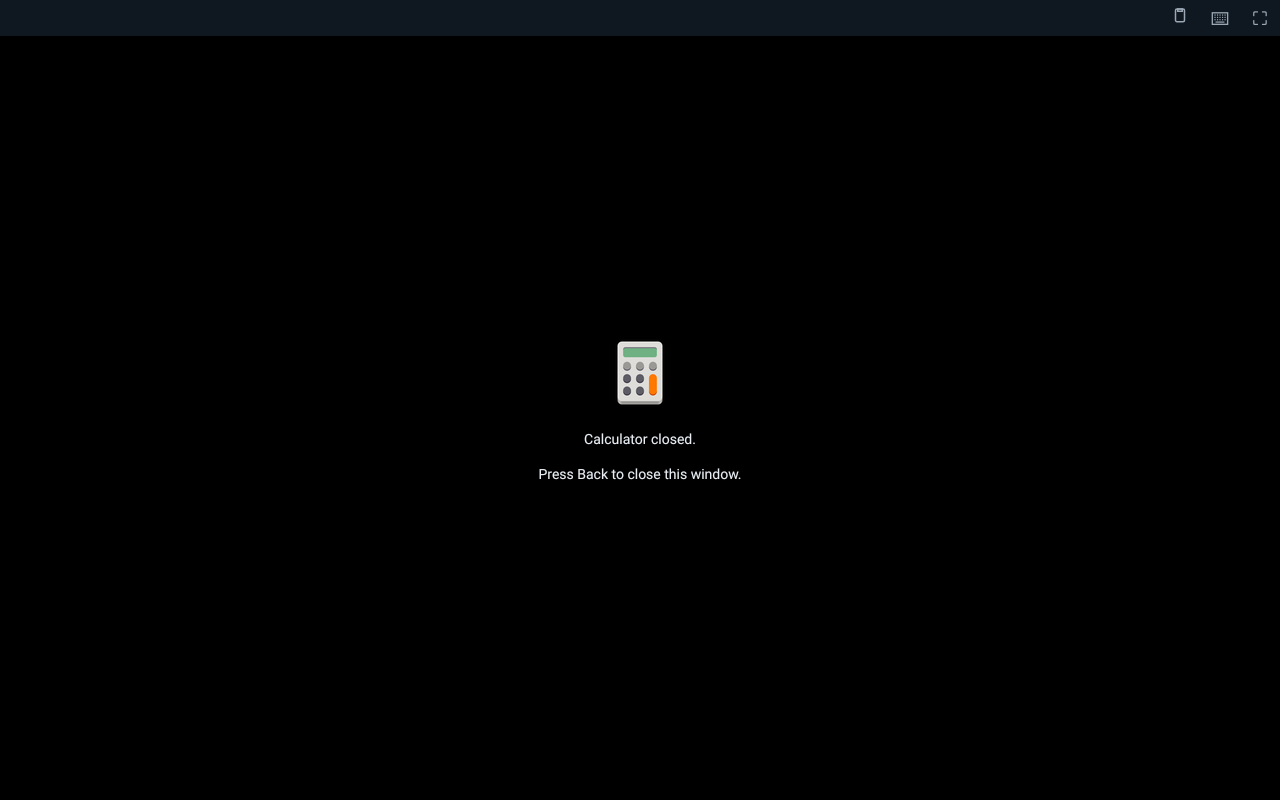
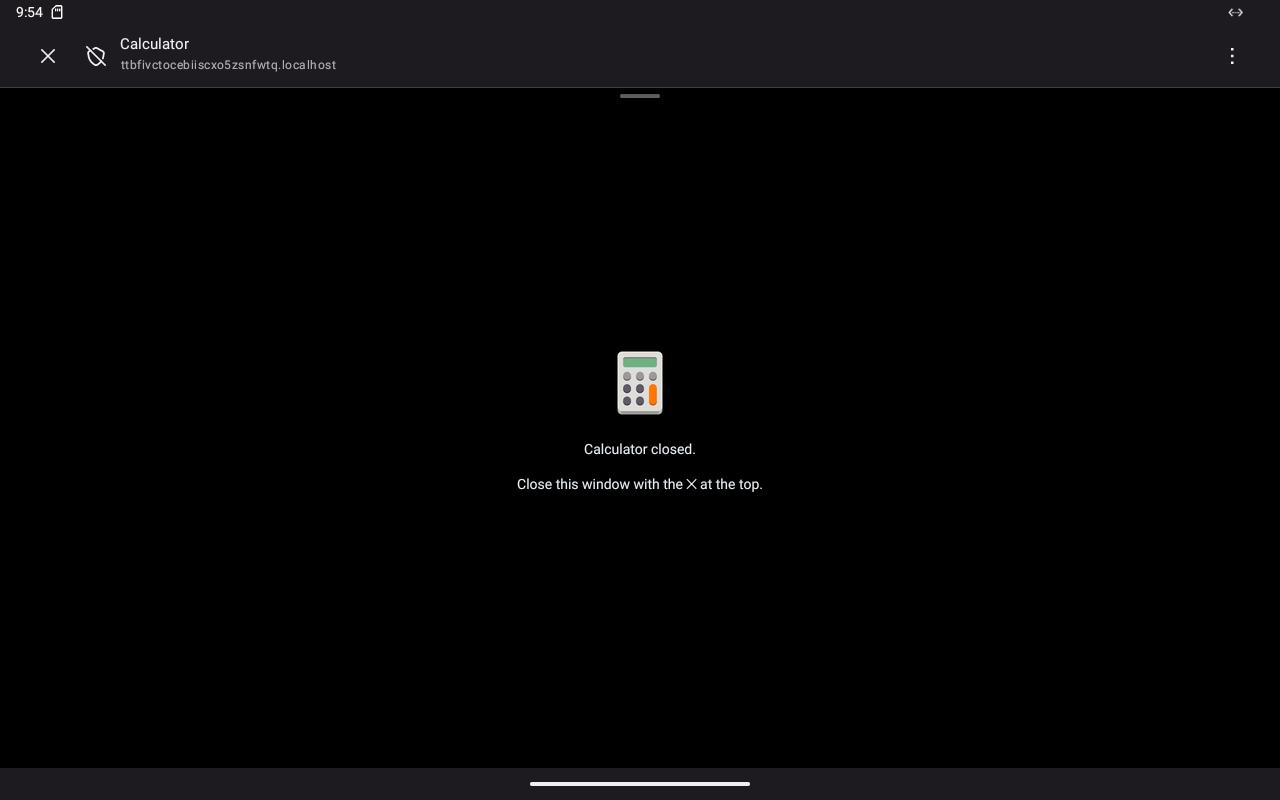
Docs: what Lindroids does now, why, and its limits, with the demos
README: demos first (home screen launch with Termux closed, Open with,
Android's picker), what you get, how it works and why (programs and data in
the container; files, theme, notifications and hardware from Android; the
browser is the window because Android draws windows only for installed apps),
honest limits, and the commands. DISPLAY, ARCHITECTURE and TESTING follow:
icons in the status bar and on the home screen, notifications, Open with,
per-program routing, the ended screen, recording demos and the checklist.

Changed region(s): [[0.0, 0.0, 1.0, 0.125], [0.0, 0.9375, 1.0, 1.0], [0.4062, 0.4062, 0.5938, 0.625]]

diff --git a/README.md b/README.md
@@ -2,65 +2,86 @@
 
 <h1 align="center">Lindroids</h1>
 
-<p align="center"><b>Linux apps on Android, in the browser you already have.</b><br>
-Run any Linux GUI program from Termux, a proot distro or Flatpak, and its windows show in the
-phone's web browser — with touch, the pen, the keyboard, sound and the clipboard. One package,
-installed with Termux's own package manager. No app to install, no permission to grant, no root.</p>
+<p align="center"><b>Linux apps on Android, each in a window of its own.</b><br>
+Run Linux GUI programs from Termux, a proot distro or Flathub, with a home screen icon, Android's
+theme, notifications and files. One package in Termux. No app to install, no permission, no root.</p>
 
-```sh
-lindroids run mousepad            # it opens in a window of its own
-lindroids export xournalpp        # a home screen icon that starts it, Termux open or not
-```
+<p align="center"><img src="media/demos/launch-from-home.webp" width="640" alt="Tapping GNOME Calculator's home screen icon with Termux closed: the window opens, 6×7=42, closing it"><br>
+<sub>The home screen icon, with Termux closed: GNOME Calculator (Flathub) opens in its own window, in Android's dark theme and accent colour, and closes with it. <a href="media/demos/launch-from-home.mp4">mp4</a></sub></p>
 
 <table>
 <tr>
-<td align="center"><img src="media/screenshots/window-of-its-own.png" width="400"><br><sub><code>lindroids run mousepad</code>: a window of its own, full screen (a Firefox Custom Tab opened by Termux)</sub></td>
-<td align="center"><img src="media/screenshots/window-program-closed.png" width="400"><br><sub>The program ended: its window says so, with its icon; Back closes it</sub></td>
+<td align="center"><img src="media/demos/open-with.webp" width="400"><br><sub>A file from Android's Files app, <b>Open with → Termux</b>: it opens in a Linux editor (Mousepad). <a href="media/demos/open-with.mp4">mp4</a></sub></td>
+<td align="center"><img src="media/demos/file-picker.webp" width="400"><br><sub><b>Open…</b> in a Linux program (GNOME Text Editor) is Android's own picker: Files, or a photo from the Camera. <a href="media/demos/file-picker.mp4">mp4</a></sub></td>
 </tr>
 <tr>
-<td align="center"><img src="media/screenshots/browser-mousepad.png" width="400"><br><sub>Mousepad (GTK 3) from Termux, typed into on Android 13</sub></td>
+<td align="center"><img src="media/screenshots/android-notifications.png" width="400"><br><sub>Linux programs' notifications are Android notifications, with their name and icon; a tap brings back the program's window</sub></td>
+<td align="center"><img src="media/screenshots/home-screen-shortcuts.png" width="400"><br><sub><code>lindroids export</code>: home screen icons with the programs' own icons</sub></td>
+</tr>
+<tr>
 <td align="center"><img src="media/screenshots/browser-xournalpp-pen.png" width="400"><br><sub>Xournal++ from a proot-distro Debian, drawn with the pen</sub></td>
-</tr>
-<tr>
-<td align="center"><img src="media/screenshots/browser-xclock-x11.png" width="400"><br><sub>X11: <code>lindroids run xclock</code> (earlier: one page, a tab per window)</sub></td>
-<td align="center"><img src="media/screenshots/browser-phone-dialog.png" width="200"><br><sub>A GTK 4 dialog on a phone-sized screen</sub></td>
-</tr>
-<tr>
-<td align="center" colspan="2"><img src="media/screenshots/home-screen-shortcuts.png" width="400"><br><sub><code>lindroids export</code>: shortcuts owned by Termux (Xournal++ greyed out after <code>lindroids remove</code>)</sub></td>
+<td align="center"><img src="media/screenshots/running-notification.png" width="400"><br><sub>A running program: its own icon in the status bar, a tap brings back its window</sub></td>
 </tr>
 </table>
 
-## What it does
+```sh
+lindroids run org.gnome.Calculator     # a window of its own
+lindroids export org.gnome.Calculator  # a home screen icon; works with Termux closed, after a reboot
+```
 
-- **Every program gets a window of its own.** On Android, `lindroids run` starts the program and
-  opens its window: a browser Custom Tab that Termux opens in a task of its own, with no tabs and
-  no address bar, and full screen from the first tap. Closing the window ends the program; the
-  program ending leaves its window showing its icon and "closed". Menus, popups and dialogs
-  work; small dialogs are centred, and windows that insist on being larger than the screen are
-  scaled down to fit. On a desktop the windows are tabs of one browser page.
-- **Anything with a window.** Native Termux packages (GTK, Qt, SDL, foot, mpv…), programs in a
-  proot distro (found there without `--distro`), **Flatpaks** from Flathub — in Termux itself,
-  with no root and no distro: `install.sh` builds Flatpak natively for Termux (Android patches in
-  `packaging/termux-flatpak`); apps install with `flatpak --user install` and run under proot —
-  and **X11 programs** with no option needed (rootless Xwayland through
-  [xwayland-satellite](https://github.com/Supreeeme/xwayland-satellite); `lindroids setup x11`
-  installs what is missing).
-- **Input.** Touch (as touch, or as a mouse for programs that don't do touch), the **pen** (as a
-  mouse with its button held, so it draws in note and paint programs), mouse and wheel, hardware
-  keyboards, and the soft keyboard (⌨, or by itself when a text field takes focus).
-- **Sound.** A PulseAudio-compatible server plays every stream in the page (Web Audio): paplay,
-  GStreamer, SDL, ALSA via pulse, libcanberra. The browser starts sound after the first tap.
-- **Android's side of the desktop**, through the standard desktop portal and notification service
-  on the programs' own session bus: dark mode, opening links (`xdg-open`, `lindroids open`),
-  files to open or save through the browser, notifications shown in the page, network state. The
-  clipboard goes both ways.
-- **Home screen icons.** `lindroids export <command>` pins a shortcut with the program's own
-  name and icon (Android asks first). It belongs to Termux, not to an app of ours: tapping it
-  has Termux run the program — Termux is started if it is closed — and its windows show in the
-  browser. The program stays where it is installed (Termux, a proot-distro distro, a Flatpak);
-  nothing is copied.
-- **Pure Rust** — the compositor, the sound server, the CLI, the frame transport — plus one
-  small web page and a 7 KB Java helper that asks Android for shortcuts.
+## What you get
+
+- **A window per program**, full screen from the first tap: the program's name, icon, menus,
+  dialogs. Closing the window ends the program; the program ending ends the window. While it
+  runs, its icon is in the status bar.
+- **Any Linux program with a window**: Termux packages, programs in a proot distro, **Flatpaks**
+  from Flathub (in Termux itself: `install.sh` sets Flatpak up there, no root), X11 programs.
+- **Home screen icons** (`lindroids export`) that start the program even when Termux is closed or
+  the phone just restarted.
+- **Android's side, piped in**: dark mode and accent colour; files (Android's picker for
+  *Open…*, *Open with* from the Files app, saves to Downloads, the Camera as a photo source);
+  notifications in Android's shade; links open in Android's browser; clipboard both ways; sound;
+  touch, pen, soft and hardware keyboards; network state.
+
+## How it works, and why
+
+- **Programs and their data stay in the container** — Termux, a proot distro, a Flatpak.
+  **Everything outside it comes from Android**: files, folders, the theme, notifications,
+  hardware. Linux programs never get the device; Android stays in charge of it.
+- **The window is the phone's browser.** Android only draws windows for installed apps, so with
+  no app of our own, a browser is the one that can show them. Termux opens each program as a
+  *Custom Tab* in a task of its own — one entry in Recents per program, no tabs, no address bar —
+  through a small `app_process` helper that runs as Termux and needs no permission. The same
+  helper pins the home screen icons and posts notifications, so they belong to Termux.
+- **The server** (`lindroids`, one Rust binary) is a Wayland compositor and a PulseAudio server.
+  It serves the window page on a loopback port, sends the 64×64 tiles that changed (LZ4), and
+  takes back touch, keys and text. Both ends prove themselves with P-256 keys before anything is
+  shown. Android's state reaches programs through the standard desktop portals (Settings,
+  FileChooser, OpenURI, Notification), so GTK and libadwaita programs follow it unchanged.
+- **Files from Android**: *Open with → Termux* runs `~/bin/termux-file-editor`, which Lindroids
+  installs; it picks the Linux program for the file's type (`lindroids open --linux`).
+
+```
+ Termux / proot distro / Flatpak                         Android
+ ┌────────────────────────────────────┐                  ┌─────────────────────────────────┐
+ │ Linux programs                     │  WebSocket on    │ a browser Custom Tab per program│
+ │   │ Wayland │ PulseAudio │ X11     │◀═ loopback ═════▶│  canvas, touch, keys, sound     │
+ │ lindroids server + desktop portals │  (P-256 keys)    │  file picker, clipboard, theme  │
+ │ app_process helper (as Termux) ────┼─────────────────▶│ home screen icons, notifications│
+ └────────────────────────────────────┘                  └─────────────────────────────────┘
+```
+
+Details and the experiments behind them: [docs/DISPLAY.md](docs/DISPLAY.md),
+[docs/ARCHITECTURE.md](docs/ARCHITECTURE.md). What is checked, and how: [lab/CHECKLIST.md](lab/CHECKLIST.md).
+
+## Limits (no app of our own)
+
+- Recents shows the browser's icon on the window (the program's name is the title).
+- Full screen starts on the first tap; Firefox does not let a page close its window, so an ended
+  program's window asks for one tap on ✕.
+- A file picked in Android's picker reaches the program as a copy: *Save As* goes to Downloads.
+  Browsers have no folder picker.
+- Home screen icons carry Termux's badge, and `lindroids remove` can only grey one out.
 
 ## Install
 
@@ -68,102 +89,53 @@ In **Termux** (from F-Droid or GitHub):
 
 ```sh
 curl -fsSL https://dixonsolutions.github.io/lindroids/install.sh | sh
-lindroids run mousepad
 ```
 
-The installer is [`install.sh`](install.sh) in this repository (the same file is served from the
-site above and from `https://raw.githubusercontent.com/dixonSolutions/lindroids/main/install.sh`).
-It adds the Lindroids repository to the package manager that is there and installs with it, so
-the usual upgrade keeps it current: in **Termux** (APT, or pacman with Termux's pacman bootstrap —
-into Termux itself, no extra distro), and in the distros of proot-distro, UserLAnd, Andronix and
-desktop Linux — **Debian/Ubuntu/Kali** (APT), **Arch/Manjaro/Artix** (pacman),
-**Fedora/RHEL/Rocky/Alma** (dnf), **openSUSE** (zypper), **Alpine/postmarketOS/Chimera** (apk) and
-**Void** (xbps). Anywhere else it installs a static binary.
-Details: [docs/INSTALL.md](docs/INSTALL.md).
-
-Nothing else to set up: the window `lindroids run` opens carries a ticket in its `#` part, which
-never leaves the browser, and the browser pairs with it once. A page opened by hand asks once for
-the code that `lindroids pair` shows.
+[`install.sh`](install.sh) adds the Lindroids repository to the package manager that is there
+(Termux's APT or pacman; Debian/Ubuntu, Arch, Fedora, openSUSE, Alpine, Void in proot distros and
+on desktops), so the usual upgrade keeps it current, and offers to set up Flatpak.
+Details: [docs/INSTALL.md](docs/INSTALL.md). Nothing to pair: the first window carries a one-time
+ticket.
 
 ## Use
 
 ```sh
-lindroids run <command> [args]          # run a program; its windows show in the browser
-lindroids run "foot -e htop"            # a whole command line
-lindroids run --prootdistro=debian gedit   # from a proot-distro distro (found without it, too)
-lindroids run org.gnome.Calculator      # an installed Flatpak (in Termux or any distro)
-lindroids run xterm                     # X11 programs too
-lindroids run --x11 gedit               # a toolkit app on X11 instead of Wayland
-lindroids run --name "Notes" --icon notes.svg mousepad
+lindroids run <command> [args]           # run a program in a window of its own
+lindroids run org.gnome.TextEditor       # a Flatpak
+lindroids run --prootdistro=debian gedit # from a proot-distro distro (found without it, too)
+lindroids run xterm                      # X11 programs too
 
-lindroids export <command> [args]       # home screen shortcut (Android asks to add it)
-lindroids list                          # what you exported
-lindroids remove <id>                   # its shortcut is greyed out; drag it off
-lindroids launch <id>                   # what the shortcut runs
+lindroids export <command> [args]        # home screen icon (again: updates it)
+lindroids list | remove <id> | launch <id>
 
-lindroids open <file|URI>               # open a link or a file through the browser
-lindroids notify <title> [body]         # a notification in the page
-lindroids info                          # dark mode, network, memory, battery, as the browser says
-lindroids setup x11                     # install Xwayland (and satellite where needed)
-lindroids setup flatpak                 # Flatpak: native in Termux (no root), or in a proot distro
-lindroids status | doctor | pair | setup | start | stop | version
+lindroids open --linux <file>            # open a file in a Linux program (--with, --choose, --list)
+lindroids open <file|URL>                # open in Android
+lindroids notify <title> [body]          # an Android notification
+lindroids info                           # what Android says: dark mode, network, battery…
+lindroids setup [x11|flatpak] | status | doctor | pair | stop | version
 ```
 
-Useful environment: `LINDROIDS_SCALE=2` (output scale; default follows the screen density),
-`LINDROIDS_TOUCH=pointer` (touch drives a mouse pointer instead of touch events).
+`LINDROIDS_SCALE=2` sets the output scale, `LINDROIDS_TOUCH=pointer` makes touch a mouse,
+`LINDROIDS_BROWSER=<package>` picks the browser for windows, `LINDROIDS_STATS=1` shows the frame
+rate in the window.
 
-## How it works
+## Tested
 
-```
- Termux / proot distro / Flatpak                          the phone's browser (Custom Tabs)
- ┌────────────────────────────────────┐                   ┌──────────────────────────────┐
- │ Linux programs                      │                   │ one window per program:      │
- │   │ Wayland    │ PulseAudio  X11    │                   │ <label>.localhost:<port>/    │
- │   ▼            ▼             ▼      │  WebSocket on     │  <canvas> ← changed tiles    │
- │ lindroids server ◀── xwayland-sat.  │◀═ loopback ══════▶│  touch, pen, keys, text      │
- │  (Rust Wayland compositor +         │  (P-256 keys)     │  Web Audio, clipboard,       │
- │   sound server, serves the page)    │                   │  files, notifications        │
- └────────────────────────────────────┘                   └──────────────────────────────┘
-```
-
-- `lindroids` is one binary: the CLI, and the server (`lindroids server`), which it starts on
-  demand. The server is a plain Linux program — no Android APIs, no `app_process` — so it runs in
-  any sandbox. It composites each window on the CPU and sends only the 64×64 tiles that changed,
-  LZ4-compressed, one frame in flight per window; the page draws them into a canvas.
-- The server's loopback port serves the page (embedded in the binary, so it always matches) and
-  a WebSocket for the link, only at `http://<label>.localhost:<port>/` (a random label: anything
-  else gets nothing). Both ends prove themselves with ECDSA P-256 keys before the page sees or
-  touches anything: the browser made its key pair when it paired, and the server keeps only its
-  public key. A program's window also needs that run's ticket, which only the CLI hands out.
-- `lindroids run` opens each program's window from Termux with a Custom Tab intent (sent by a
-  small `app_process` helper, as Termux, which needs no permission); the same program's window
-  comes back to the front instead of opening twice.
-- Details, everything that was tried, and the lab tests: [docs/DISPLAY.md](docs/DISPLAY.md).
-
-More: [docs/ARCHITECTURE.md](docs/ARCHITECTURE.md).
-
-## Compatibility
-
-| | |
-|---|---|
-| Android | 7.0 (API 24) and newer, with any current browser (Chrome, Firefox, the system WebView browsers); arm64-v8a, armeabi-v7a, x86_64, x86 |
-| Terminals | Termux; distros under proot (proot-distro, UserLAnd, Andronix…): Debian, Ubuntu, Alpine and Arch; desktop Linux (for testing) |
-| Tested in the browser | Android 13 (lab VM, Termux 0.118.3): Mousepad (typing, menus), Xournal++ from Debian (pen), xclock (X11), home screen shortcuts with Termux closed and open; desktop Chromium: zenity, gtk3-demo (typing, soft-keyboard path, completion popups) |
-| Earlier tested with the old app, same server | GTK 4 and Flatpaks (GNOME Calculator, Characters, Pinta, Tux Paint, RustDesk), Qt 6, SDL 3, foot, xterm, sound |
+Android 13 lab VM (SELinux enforcing, Termux 0.118.3, Firefox): GNOME Calculator and Text Editor
+from Flathub, Mousepad and foot from Termux, Xournal++ from Debian, xclock (X11); home screen
+icons with Termux closed and after a reboot; Open with, the file picker, notifications, theme;
+55 fps scrolling. See [lab/CHECKLIST.md](lab/CHECKLIST.md) and [docs/TESTING.md](docs/TESTING.md).
 
 ## Build from source
 
 ```sh
-scripts/build-release.sh          # everything: CLIs for 8 targets, debs, pacman, tarballs → dist/
+scripts/build-release.sh   # CLIs for 8 targets, packages, tarballs → dist/
 cargo test --workspace
-tests/host-integration.sh         # server + a stand-in display + foot, on any Linux box
 ```
 
-Needs Rust with the Android and musl targets, `cargo-ndk` and NDK 27. See
-[docs/PACKAGING.md](docs/PACKAGING.md).
+Needs Rust with the Android and musl targets, `cargo-ndk` and NDK 27: [docs/PACKAGING.md](docs/PACKAGING.md).
 
 ## License
 
-Lindroids is dual-licensed under [MIT](LICENSE-MIT) or [Apache-2.0](LICENSE-APACHE), at your
-option. Packages also ship xwayland-satellite (MPL-2.0); see
-[third_party/README.md](third_party/README.md).
+[MIT](LICENSE-MIT) or [Apache-2.0](LICENSE-APACHE), at your option. Packages also ship
+xwayland-satellite (MPL-2.0): [third_party/README.md](third_party/README.md).

diff --git a/docs/DISPLAY.md b/docs/DISPLAY.md
@@ -90,7 +90,8 @@ shows in a tab of the default browser.
 
 | Where | Icon |
 |---|---|
-| Home screen | The exported program's own icon and name, on a shortcut pinned for Termux. The launcher adds a small Termux badge. |
+| Home screen | The exported program's own icon and name, as an adaptive icon (the program's drawing on a backdrop of its colour), on a shortcut pinned for Termux. The launcher adds a small Termux badge. Exporting again updates it in place *(tested)*. |
+| Status bar and shade | While the program runs: its one-colour (`-symbolic`) icon in the status bar, its name and icon in a notification the helper posts as Termux; a tap brings back its window *(tested)*. Its own notifications show the same way. |
 | The window | The page's favicon and title are the program's. While it starts, and after it ends, the page shows the program's icon and name full size *(tested: "Calculator closed." under the Calculator icon)*. |
 | Recents | **The browser's icon** (Firefox *(tested)*), with a live thumbnail of the program. Only an app's own activity can set its icon there, and the browser sets it only for web apps installed through it, which are rejected above. This is the one requirement no design without an APK can meet. |
 
@@ -350,7 +351,13 @@ a dead one and end its program.
    until the first window comes, then the program's windows, and goes full screen on the first
    tap.
 6. Either end ends the run, as above. Ctrl+C in the terminal, or closing the Termux session, ends
-   the program; its window then shows the end screen.
+   the program; its window then shows the end screen, out of full screen so that the browser's ✕
+   shows (Back only sends a Firefox Custom Tab behind; ✕ removes it *(tested)*). A run started
+   from a home screen icon ends with Termux's session, server and all: the page takes the lost
+   link as the end of the program.
+7. While it runs, a notification stands for it (its icon in the status bar), posted by the helper
+   as Termux; requests from the program (sound, file pickers, links, notifications) go to its own
+   window, by pid → run.
 
 ### Export: `lindroids export X` *(tested)*
 
@@ -413,19 +420,17 @@ has a developer option to turn it off. Lindroids keeps its own process count low
 | No root, no APK, no special permission or setting | Yes. Lindroids uses intents to the browser and to Termux's share receiver, and pinned shortcuts: nothing else. |
 | Any Android version and vendor | Yes, with a browser that has Custom Tabs, which every major one does. Without one, the windows fall back to a plain browser tab. |
 | A window of its own, not a tab, not installed through the browser | Yes. A Custom Tab in its own task per program, opened and raised by Lindroids. Full screen from the first tap; before that, a thin bar with close, title and menu. |
-| The program's icon | Yes on the home screen, in the window, as the favicon, and on the start and end screens. **No in recents**, where the browser's icon shows with a live thumbnail of the program; that needs an APK. |
-| Single run tied to its process | Window gone: the program ends 5 s later, or 60 s later if the browser died. Program gone: `run` exits, and the window shows its end screen until Back (Firefox does not let a page close a Custom Tab). |
+| The program's icon | Yes on the home screen, in the status bar and notifications, in the window, as the favicon, and on the start and end screens. **No in recents**, where the browser's icon shows with a live thumbnail of the program; that needs an APK. |
+| Single run tied to its process | Window gone: the program ends 5 s later, or 60 s later if the browser died. Program gone: `run` exits, and the window shows its end screen until ✕ (Firefox does not let a page close a Custom Tab). |
 | Export works with Termux closed | Yes. A Termux-owned shortcut with the program's icon, through the share receiver; 2 s to the window in the lab. |
 
 ## Ideas to make it better
 
 These have not been tried yet.
 
-- **A notification per running program.** The `app_process` helper posts it for Termux: the
-  program's icon and name, *Show* (raises the window) and *Stop*. This puts the icon in the
-  status bar, gives a running program a place outside the browser, and helps when the browser
-  ignores `window.close()`. Test on Android 13 that a notification posted from `app_process`
-  doesn't crash anything the way overlays did.
+- **Stop from the running program's notification.** It has the program's icon and a tap that
+  brings back the window (done). A *Stop* button needs a way back from Android to the relay
+  without Termux coming to the front (a PendingIntent can only start Termux's activities).
 - **Chrome.** Test Chrome's Custom Tabs on a phone: whether `window.close()` works there, and
   whether recents shows the page's title and icon. Installing a stock Chromium build on the lab
   VM was not permitted in this session. On phones with Google Play, Chrome's minted WebAPKs answer
@@ -433,7 +438,5 @@ These have not been tried yet.
 - **Closing Firefox's window from outside.** Re-send the window's intent with
   `FLAG_ACTIVITY_CLEAR_TASK` towards a URL Firefox refuses, to see whether its task ends. This
   depends on Firefox's internals, so it is only worth it if it holds across versions.
-- **Sound per window.** Sound goes to the page used last, not to the window of the program
-  playing it.
 - **`app_process` exits 137** after the helper starts an activity (the activity does start; the
   helper prints its result first). Find out why.

diff --git a/docs/ARCHITECTURE.md b/docs/ARCHITECTURE.md
@@ -181,11 +181,17 @@ with what a browser knows:
 
 | Interface | The page |
 |---|---|
-| Settings (`org.freedesktop.appearance`, GNOME's `gtk-theme`/`color-scheme`) | `prefers-color-scheme`, `prefers-contrast`, `prefers-reduced-motion`; changes signalled live |
+| Settings (`org.freedesktop.appearance`, GNOME's `gtk-theme`/`color-scheme`/`icon-theme`) | `prefers-color-scheme`, the CSS `AccentColor` (Android's accent), `prefers-contrast`, `prefers-reduced-motion`; changes signalled live. Answered from the start (the last state is kept on disk) with GNOME's defaults for the rest: libadwaita gives up on a portal that fails at startup, and GTK 4 fills keys a namespace lacks with stand-ins (icon theme "gnome") |
 | OpenURI | links open in a new tab (after a tap, if the browser wants one); files are offered to open or save |
-| FileChooser | the browser's file chooser (a tap starts it), contents fetched into the runtime dir; saves become downloads |
-| Notification, fdo Notifications | notices in the page with their buttons; taps come back as actions |
+| FileChooser | Android's picker through the browser (Files, Camera…), at once after the tap that asked; contents fetched into the runtime dir; saves become downloads |
+| Notification, fdo Notifications | Android notifications, posted by the `app_process` helper as Termux (program name and icon, a tap brings back its window), and notices in the page with their buttons |
 | NetworkMonitor | `navigator.onLine` |
+
+Requests go to the page of the program that asked (the caller's pid → its run), sound included.
+Files come the other way too: Android's *Open with → Termux* (or Share) saves the file in
+`~/downloads` and runs `~/bin/termux-file-editor`, which Lindroids installs; it runs
+`lindroids open --linux`, which picks the program by MIME type from exported programs and the
+.desktop files of Termux, Flatpaks and distros (`~/.config/mimeapps.list` remembers a choice).
 
 Programs get `DBUS_SESSION_BUS_ADDRESS`, `GTK_USE_PORTAL=1` (GLib and GTK 3 use the portal outside
 a Flatpak only when asked), `GDK_DEBUG=portals` (GTK 4), `QT_QPA_PLATFORMTHEME=xdgdesktopportal`,

diff --git a/docs/TESTING.md b/docs/TESTING.md
@@ -61,5 +61,8 @@ A permissive device is still useful for SELinux work: it logs every access an en
 refuse (`logcat | grep "avc: denied"`) — that is how the cross-app `connectto` denial behind the
 TCP link was found.
 
-Screens can be recorded without a hardware encoder by pulling raw `screencap` frames over adb and
-encoding them on the host.
+Screens are recorded without a hardware encoder (the VMs have none) by `lab/record.sh`, which
+pulls raw `screencap` frames over adb and encodes an MP4 and an animated WebP for the README.
+`LINDROIDS_STATS=1` puts the frame rate and drawing time in a corner of each window.
+[lab/CHECKLIST.md](../lab/CHECKLIST.md) lists what "fully working" means and where each item
+stands.
